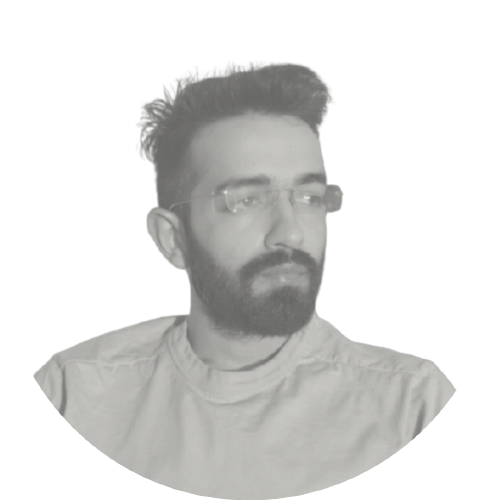
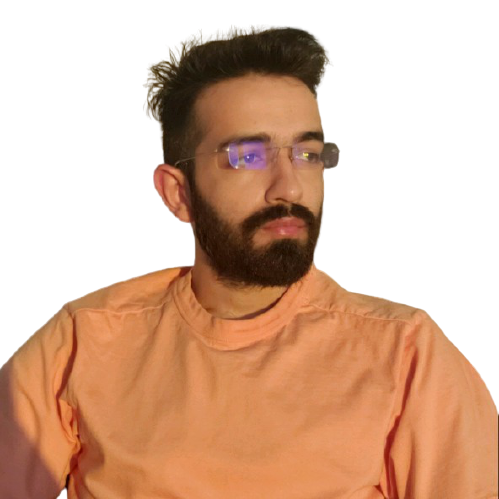
[DEV] Initial design

diff --git a/src/components/AuthorIntro.js b/src/components/AuthorIntro.js
@@ -1,45 +1,82 @@
 
 import React from 'react';
-
-import { Box, Grid } from '@mui/material';
-import img from '../assets/img/DisplayImage.png'
-import Typography from '@mui/material/Typography';
-
-import { authorIntroTheme } from '../styles/Theme';
 import {
-  authorIntroductionConfig, authorImageConfig
+    Stack, Grid, IconButton  ,
+    Typography,
+    Avatar
+} from '@mui/material';
+import img from '../assets/img/DisplayImage1.png'
+import LinkedInIcon from '@mui/icons-material/LinkedIn';
+import GitHubIcon from '@mui/icons-material/GitHub';
+import TwitterIcon from '@mui/icons-material/Twitter';
+import { authorIntroTheme } from '../styles/Theme';
+
+import {
+  authorIntroductionConfig, 
+  authorImageConfig,
+  authorSocialsConfig
 } from '../configs/HomePageConfig';
 
 
 function AuthorIntro() {
   return (
-    <Grid container justifyContent="center" spacing={12}>
-        <Grid 
-          item 
-          xs={3} 
-          container
-          direction="column"
+    <Grid container justifyContent="center" spacing={2}>
+        <Grid item xs={12} sm={12} md={2}
           style={{justifyContent:"center", alignItems:"center"}}
         >
-          <Box>
+          <Avatar 
+            src={img} 
+            alt={authorImageConfig.altText} 
+            sx={{ 
+                width:authorIntroTheme.authorImage.width,
+                height:authorIntroTheme.authorImage.height 
+            }}
+          />
+        </Grid>
+        <Grid item xs={12} sm={12} md={12}
+          justifyContent="center"
+          style={{justifyContent:"center", alignItems:"center"}}
+        >
+          <Typography
+            variant="h3"
+            align='center'
+          >
+            Data Engineer @ BenchSci
+          </Typography>
+        </Grid>
+        <Grid 
+          item xs={12} sm={12} md={6}
+          style={{justifyContent:"center", alignItems:"center"}}
+        >
+          
             {authorIntroductionConfig.map( (configItem) => (
-              <Typography  variant="h6" color="primary" >
+              <Typography key={configItem.id} variant="h6" color="primary" align='center'>
                 {configItem.item}
               </Typography>
               )) 
             }
-          </Box>
+        
         </Grid>
-
-        <Grid item xs={3}>
-          <img 
-            src={img} 
-            alt={authorImageConfig.altText} 
-            width={authorIntroTheme.authorImage.width}
-            height={authorIntroTheme.authorImage.height}
-          />
+        <Grid 
+          item xs={12} sm={12} md={12}
+          style={{justifyContent:"center", alignItems:"center"}}
+        >
+          <Stack 
+            direction="row" 
+            spacing={3} 
+            style={{justifyContent:"center", alignItems:"center"}}
+          >
+            <IconButton onClick={() => window.open(authorSocialsConfig[0].itemLink, "_blank")}>
+                <GitHubIcon />
+            </IconButton>
+            <IconButton onClick={() => window.open(authorSocialsConfig[1].itemLink, "_blank")}>
+                <LinkedInIcon />
+            </IconButton>
+            <IconButton onClick={() => window.open(authorSocialsConfig[2].itemLink, "_blank")}>
+                <TwitterIcon />
+            </IconButton>
+          </Stack>
         </Grid>
-
     </Grid>
   );
 }

diff --git a/src/configs/HomePageConfig.js b/src/configs/HomePageConfig.js
@@ -3,16 +3,11 @@ export const authorIntroductionConfig= [
         id: 0, 
         itemType:"text", 
         item: 
-        "I an entrepreneur, data engineer and writer based in Toronto. " +
-        "I am intrigued by anything AI and have helped companies build large scale machine learning systems."    
+        "I am an entrepreneur, a data engineer and a writer based in Toronto. " +
+        "I help companies build large scale machine learning systems. \
+        I am currently helping BenchSci build world's most advanced biomedical AI to empower scientists by \
+        advancing biomedical assets and increase experimental success rate."    
     },
-    {
-        id: 0, 
-        itemType:"text", 
-        item: 
-        "I am currently helping BenchSci build world's most advanced biomedical AI to empower scientists by \
-        advancing biomedical assets and increase experimental success rate."   
-    }
 ]
 
 export const authorImageConfig = {
@@ -21,3 +16,21 @@ export const authorImageConfig = {
     itemLink:"../assets/img/DisplayImage.png",
     altText: "Yuvrender Gill's image." 
 }
+
+export const authorSocialsConfig = [
+    {
+        id:0, 
+        itemType:"Github", 
+        itemLink:"https://github.com/Yuvrender-Gill/",
+    },
+    {
+        id:1, 
+        itemType:"Linkedin", 
+        itemLink:"https://www.linkedin.com/in/yuvrender-gill/",
+    },
+    {
+        id:2, 
+        itemType:"Twitter", 
+        itemLink:"https://twitter.com/GYuvrender",
+    },
+]

diff --git a/src/components/Card.js b/src/components/Card.js
@@ -1,0 +1,33 @@
+import * as React from 'react';
+import Card from '@mui/material/Card';
+import CardActions from '@mui/material/CardActions';
+import CardContent from '@mui/material/CardContent';
+import CardMedia from '@mui/material/CardMedia';
+import Button from '@mui/material/Button';
+import Typography from '@mui/material/Typography';
+
+export default function MediaCard() {
+  return (
+    <Card sx={{ maxWidth: 345 }}>
+      <CardMedia
+        component="img"
+        height="140"
+        image="/static/images/cards/contemplative-reptile.jpg"
+        alt="green iguana"
+      />
+      <CardContent>
+        <Typography gutterBottom variant="h5" component="div">
+          Lizard
+        </Typography>
+        <Typography variant="body2" color="text.secondary">
+          Lizards are a widespread group of squamate reptiles, with over 6,000
+          species, ranging across all continents except Antarctica
+        </Typography>
+      </CardContent>
+      <CardActions>
+        <Button size="small">Share</Button>
+        <Button size="small">Learn More</Button>
+      </CardActions>
+    </Card>
+  );
+}

diff --git a/src/components/Navbar.js b/src/components/Navbar.js
@@ -16,9 +16,15 @@ import { navbarItemsConfig } from '../configs/NavbarConfigs';
 const theme = {
   box:{
     sx: { 
-      flexGrow: 1, 
+      // flexGrow: 1, 
       display: { xs: 'none', md: 'flex' },
       cursor:'pointer',
+      float: 'right',
+    }
+  },
+  authorName:{
+    sx:{
+      
     }
   }
 }
@@ -40,19 +46,19 @@ const ResponsiveAppBar = () => {
     <AppBar position="static">
       <Container maxWidth="xl">
         <Toolbar disableGutters spacing={3} >
-        
         <Typography
           variant="h3"
           noWrap
           component="div"
           onClick={() => navigate(navbarItemsConfig[0].navItemLink)}
+          sx={{ flexGrow: 1 }}
         >
           {
             navbarItemsConfig[0].navItem // LOGO
           }
         </Typography>
-
-        <Stack direction="row"  sx={theme.box.sx} px={10} spacing={3}>
+        
+        <Stack direction="row"  sx={theme.box.sx} px={5} spacing={3}>
           {navbarItemsConfig.slice(1).map((page) => (
             
               <Typography

diff --git a/src/configs/NavbarConfigs.js b/src/configs/NavbarConfigs.js
@@ -1,6 +1,6 @@
 export const navbarItemsConfig = [
     {id: 0, navItem:"Y.Gill", itemType:"logo", externalLink:false, navItemLink: "/"},
     {id: 1, navItem: "Blog", itemType:"menuItem", externalLink:true, navItemLink: "https://medium.com/@yuvrendergill21"},
-    // {id: 2, navItem: "Talks", itemType:"menuItem", externalLink:false, navItemLink: "/talks"},
-    // {id: 3, navItem: "Readings", itemType:"menuItem", externalLink:false, navItemLink: "/talks"},
+//     {id: 2, navItem: "Talks", itemType:"menuItem", externalLink:false, navItemLink: "/talks"},
+//     {id: 3, navItem: "Readings", itemType:"menuItem", externalLink:false, navItemLink: "/talks" },
 ]

diff --git a/src/pages/Home.js b/src/pages/Home.js
@@ -3,17 +3,20 @@ import React from 'react';
 
 import { Grid } from '@mui/material';
 import AuthorIntro from '../components/AuthorIntro';
-
+import MediaCard from '../components/Card'
 import ResponsiveAppBar from '../components/Navbar';
 
 function Home() {
   return (
     <Grid>
-      <Grid item xs={12}>
+      <Grid item >
         <ResponsiveAppBar/>
       </Grid>
-      <Grid item xs={12}>
+      <Grid item padding={5}>
         <AuthorIntro></AuthorIntro>
+      </Grid>
+      <Grid item paddingX={2}>
+        {/* <MediaCard></MediaCard> */}
       </Grid>
     </Grid>
   );

diff --git a/src/styles/Theme.js b/src/styles/Theme.js
@@ -30,7 +30,8 @@ export const lightTheme = createTheme({
  */
 export const authorIntroTheme = {
     authorImage: {
-        width:"200", 
-        height:"400",
+        width:'100%', 
+        height:'auto',
+     
     }
 }
